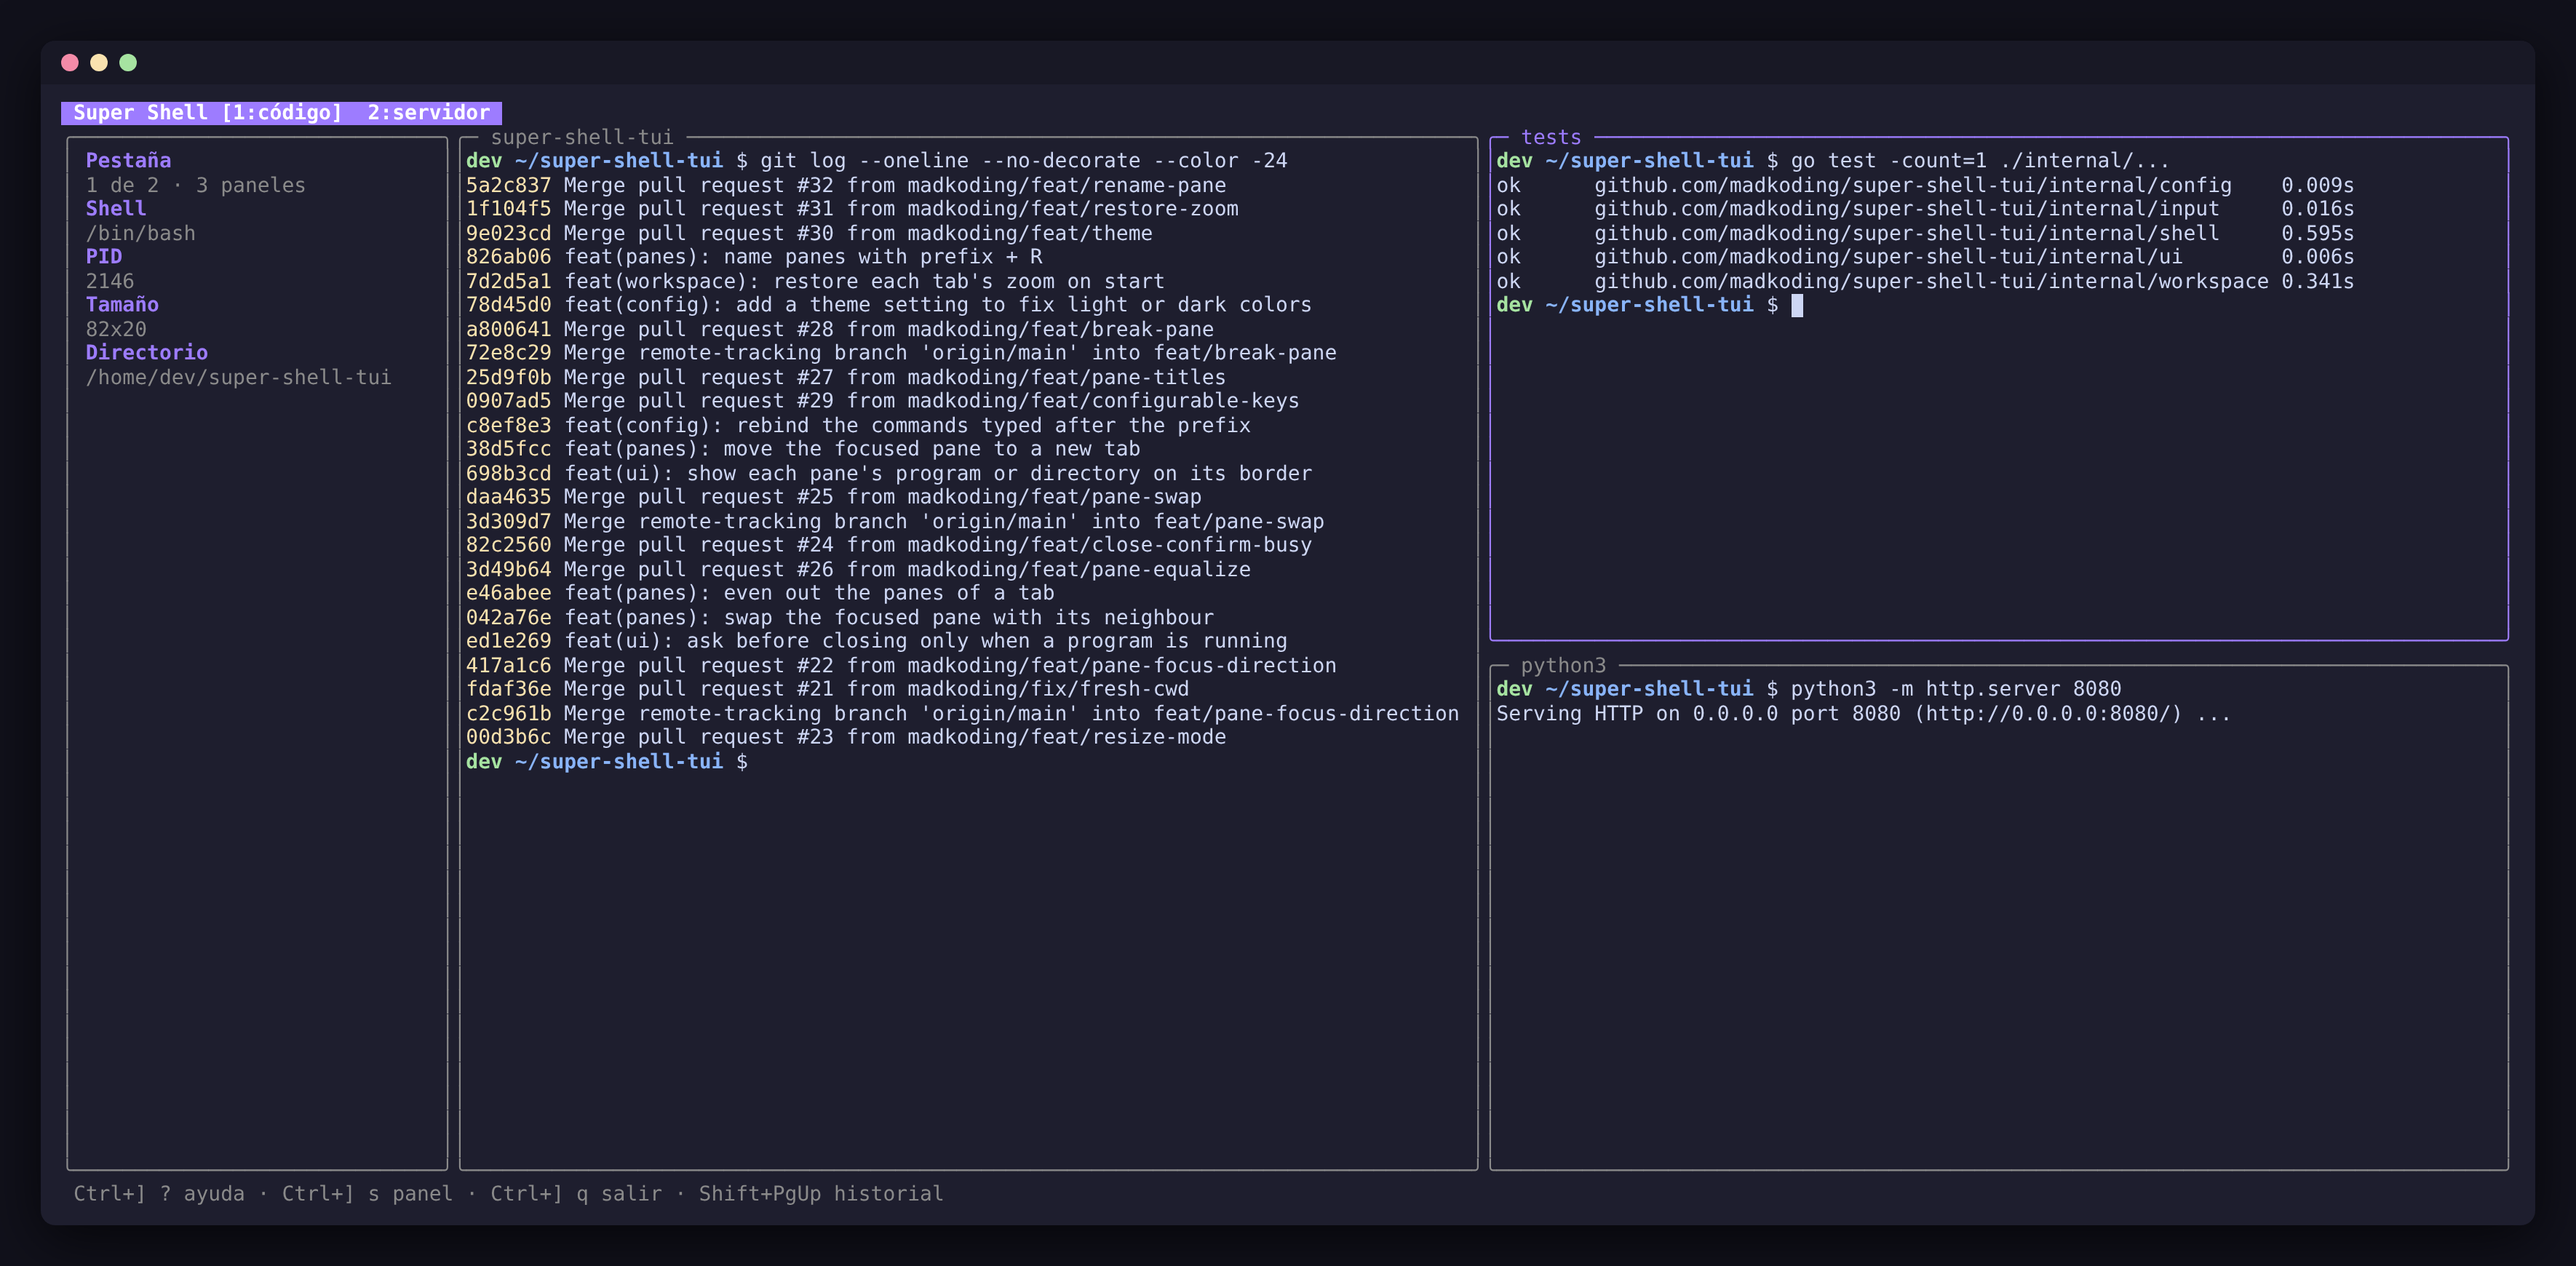
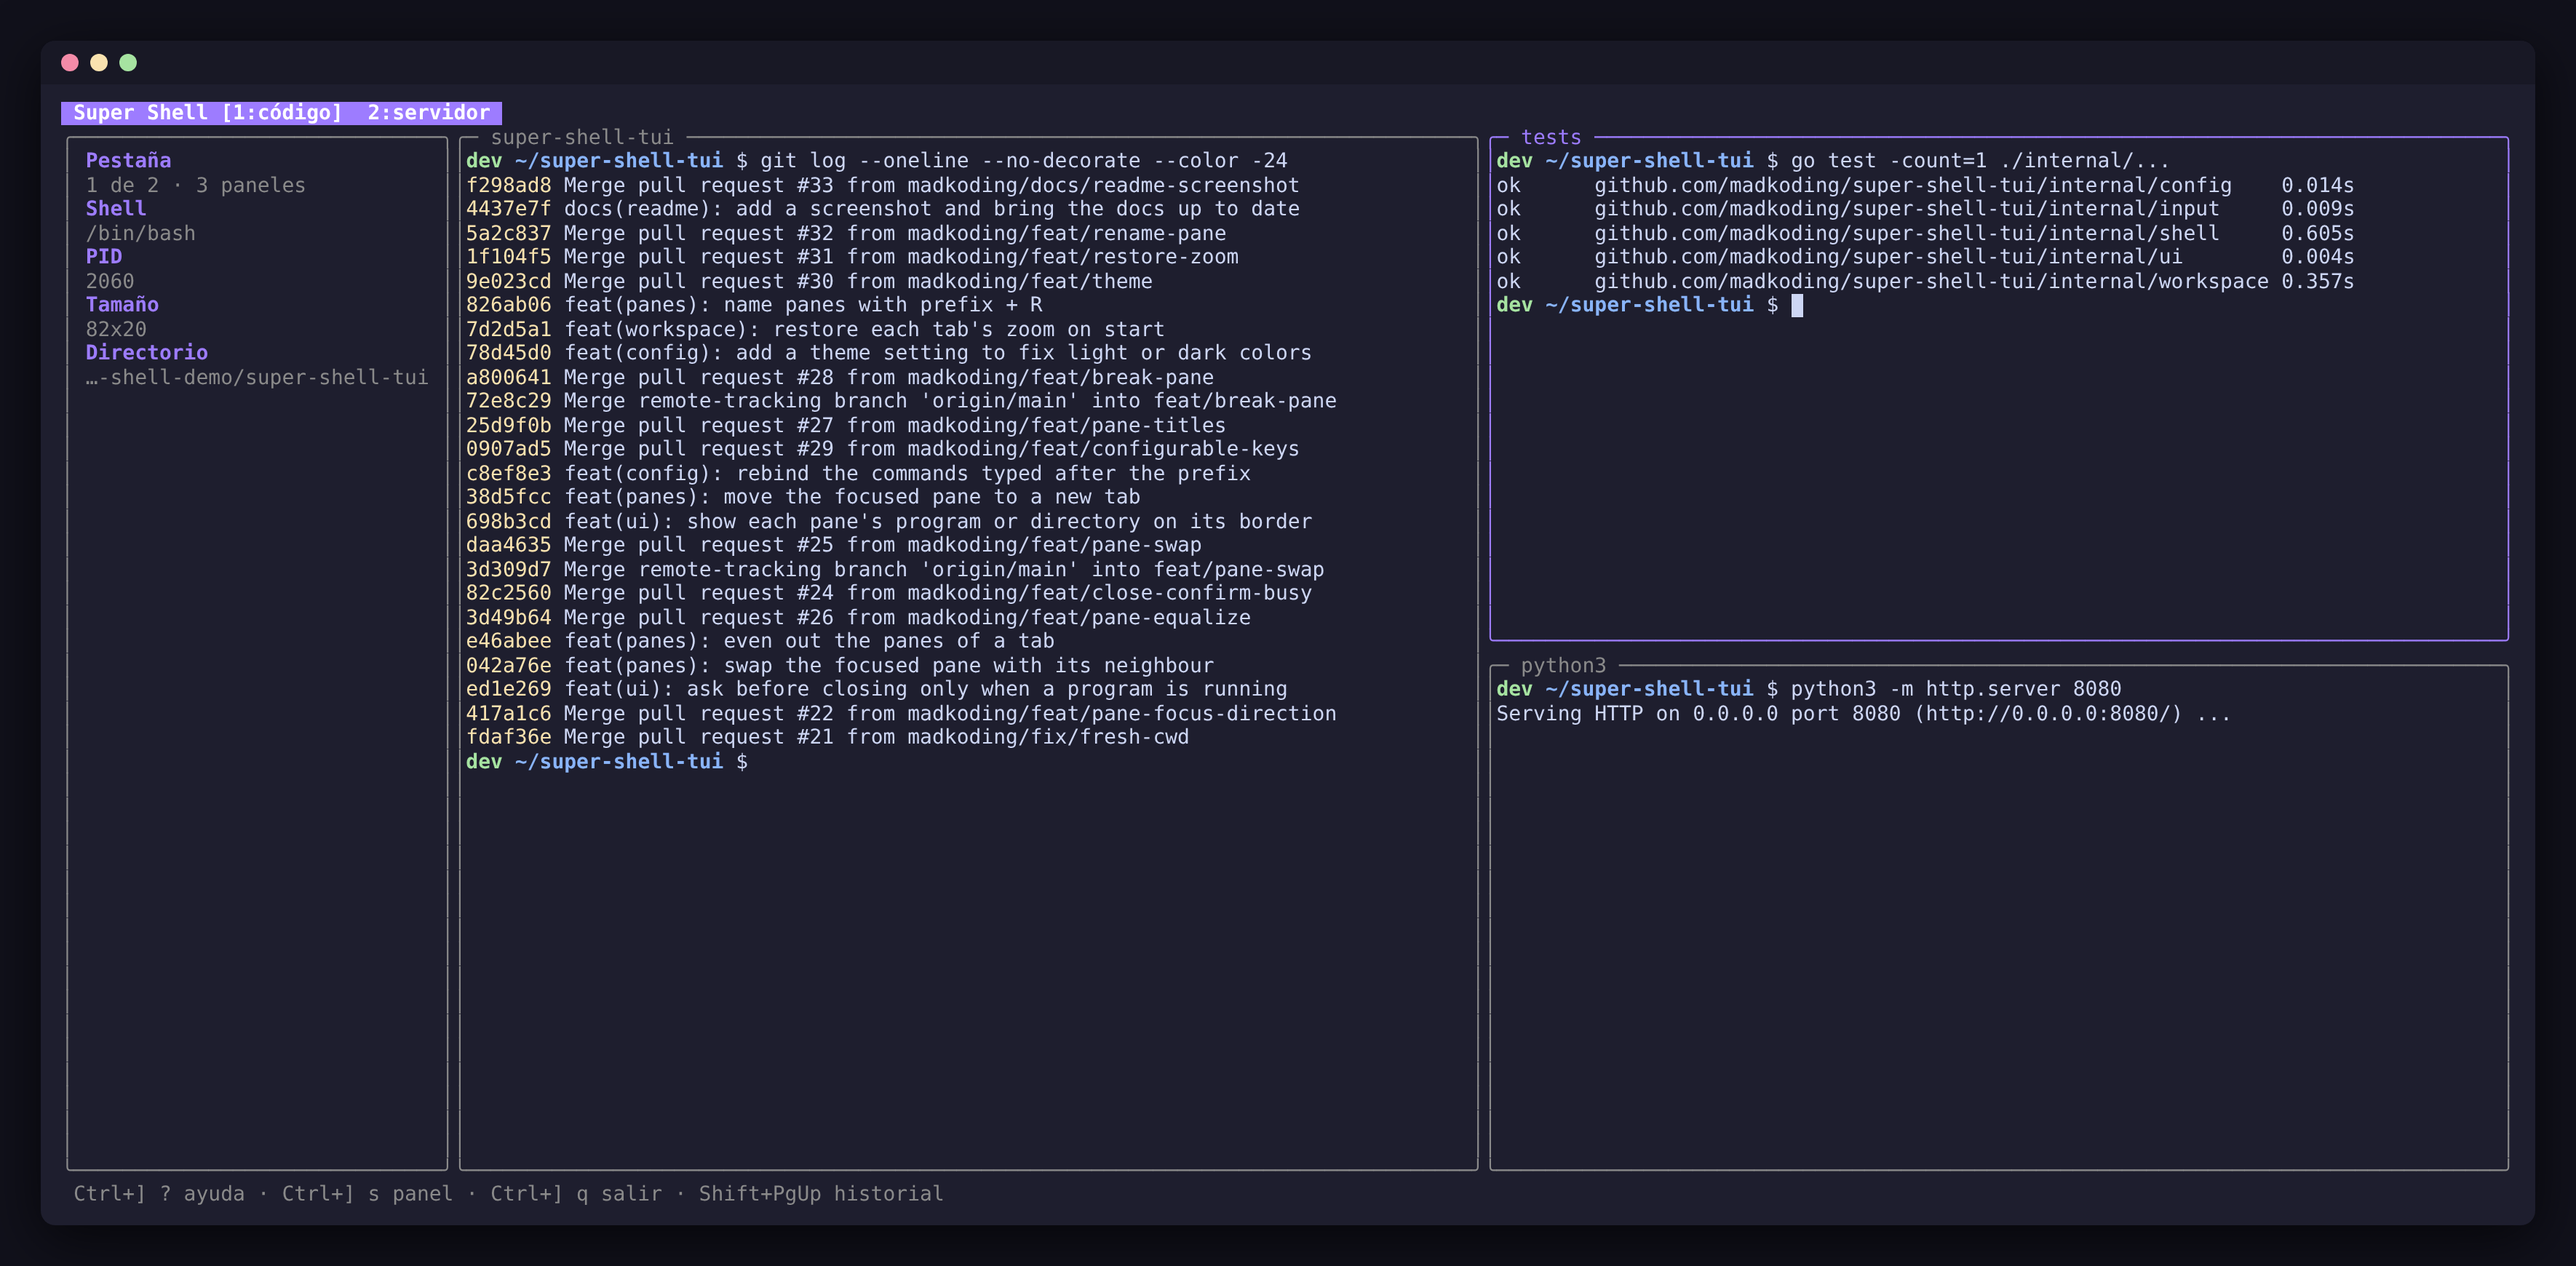
docs: add make screenshot to regenerate the README images and a demo GIF
scripts/screenshot/run.sh drives the real app in a detached tmux session,
renders the captured screens with headless Chromium and builds
docs/screenshot.png plus docs/demo.gif (split, name a pane, zoom). A small
Makefile adds build, test and screenshot targets.

Claude-Session: https://claude.ai/code/session_011xzmDbQQm7PpzoWjrbTfMQ

Changed region(s): [[0.1864, 0.1241, 0.5593, 0.5897], [0.0311, 0.2793, 0.1554, 0.3103]]

diff --git a/scripts/screenshot/render.js b/scripts/screenshot/render.js
@@ -1,0 +1,17 @@
+// Renders HTML pages made by ans2html.py to PNG with headless Chromium.
+// Usage: node render.js SCALE IN.html OUT.png [IN.html OUT.png ...]
+const { chromium } = require('playwright');
+
+(async () => {
+  const [scale, ...pairs] = process.argv.slice(2);
+  const browser = await chromium.launch(
+    process.env.CHROMIUM ? { executablePath: process.env.CHROMIUM } : {});
+  const page = await browser.newPage({ deviceScaleFactor: Number(scale) });
+  for (let i = 0; i < pairs.length; i += 2) {
+    await page.goto('file://' + require('path').resolve(pairs[i]));
+    const box = await (await page.$('.w')).boundingBox();
+    await page.setViewportSize({ width: Math.ceil(box.width + 56), height: Math.ceil(box.height + 56) });
+    await page.screenshot({ path: pairs[i + 1] });
+  }
+  await browser.close();
+})();

diff --git a/scripts/screenshot/ans2html.py b/scripts/screenshot/ans2html.py
@@ -1,0 +1,121 @@
+"""Converts a `tmux capture-pane -e` dump to an HTML page that looks like a
+terminal window. Usage: python3 ans2html.py IN.ans > OUT.html"""
+import html
+import re
+import sys
+
+# Catppuccin Mocha: the 16 ANSI colors, default foreground and background.
+PALETTE = ["#1e1e2e", "#f38ba8", "#a6e3a1", "#f9e2af", "#89b4fa", "#f5c2e7", "#94e2d5", "#bac2de",
+           "#585b70", "#f38ba8", "#a6e3a1", "#f9e2af", "#89b4fa", "#f5c2e7", "#94e2d5", "#a6adc8"]
+FG, BG = "#cdd6f4", "#1e1e2e"
+SGR = re.compile(r"(\x1b\[[0-9;:]*m)")
+
+
+def color256(n):
+    if n < 16:
+        return PALETTE[n]
+    if n < 232:
+        n -= 16
+        v = [0, 95, 135, 175, 215, 255]
+        return "#%02x%02x%02x" % (v[n // 36], v[n // 6 % 6], v[n % 6])
+    g = 8 + (n - 232) * 10
+    return "#%02x%02x%02x" % (g, g, g)
+
+
+class Pen:
+    def __init__(self):
+        self.reset()
+
+    def reset(self):
+        self.fg = self.bg = None
+        self.bold = self.faint = self.italic = self.underline = self.reverse = False
+
+    def apply(self, params):
+        i = 0
+        while i < len(params):
+            x = params[i]
+            if x == 0:
+                self.reset()
+            elif x == 1:
+                self.bold = True
+            elif x == 2:
+                self.faint = True
+            elif x == 3:
+                self.italic = True
+            elif x == 4:
+                self.underline = True
+            elif x == 7:
+                self.reverse = True
+            elif x == 22:
+                self.bold = self.faint = False
+            elif x == 23:
+                self.italic = False
+            elif x == 24:
+                self.underline = False
+            elif x == 27:
+                self.reverse = False
+            elif 30 <= x <= 37:
+                self.fg = PALETTE[x - 30]
+            elif 90 <= x <= 97:
+                self.fg = PALETTE[x - 82]
+            elif 40 <= x <= 47:
+                self.bg = PALETTE[x - 40]
+            elif 100 <= x <= 107:
+                self.bg = PALETTE[x - 92]
+            elif x == 39:
+                self.fg = None
+            elif x == 49:
+                self.bg = None
+            elif x in (38, 48) and i + 1 < len(params):
+                attr = "fg" if x == 38 else "bg"
+                if params[i + 1] == 5:
+                    setattr(self, attr, color256(params[i + 2]))
+                    i += 2
+                elif params[i + 1] == 2:
+                    setattr(self, attr, "#%02x%02x%02x" % tuple(params[i + 2:i + 5]))
+                    i += 4
+            i += 1
+
+    def span(self, text):
+        fg, bg = self.fg or FG, self.bg or BG
+        if self.reverse:
+            fg, bg = bg, fg
+        style = f"color:{fg};"
+        if self.bg or self.reverse:
+            style += f"background:{bg};"
+        if self.bold:
+            style += "font-weight:bold;"
+        if self.faint:
+            style += "opacity:.6;"
+        if self.italic:
+            style += "font-style:italic;"
+        if self.underline:
+            style += "text-decoration:underline;"
+        return f'<span style="{style}">{html.escape(text)}</span>'
+
+
+def convert(dump):
+    pen, lines = Pen(), []
+    for line in dump.split("\n"):
+        out = []
+        for part in SGR.split(line):
+            if part.startswith("\x1b["):
+                pen.apply([int(x) if x else 0 for x in re.split("[;:]", part[2:-1])])
+            elif part:
+                out.append(pen.span(part))
+        lines.append("".join(out))
+    return "\n".join(lines)
+
+
+PAGE = """<!doctype html><meta charset=utf-8><style>
+body{margin:0;background:#11111b;padding:28px}
+.w{display:inline-block;background:%(bg)s;border-radius:10px;box-shadow:0 10px 40px #000a;overflow:hidden}
+.bar{height:30px;background:#181825;display:flex;align-items:center;padding-left:14px;gap:8px}
+.bar i{width:12px;height:12px;border-radius:50%%;display:block}
+pre{margin:0;padding:12px 14px;font:14px/1.18 "DejaVu Sans Mono",monospace;color:%(fg)s}
+</style><div class=w><div class=bar><i style="background:#f38ba8"></i><i style="background:#f9e2af"></i>\
+<i style="background:#a6e3a1"></i></div><pre>%(body)s</pre></div>"""
+
+if __name__ == "__main__":
+    with open(sys.argv[1], encoding="utf-8") as f:
+        print(PAGE % {"bg": BG, "fg": FG, "body": convert(f.read())})

diff --git a/README.md b/README.md
@@ -11,6 +11,8 @@ lateral de información y la sesión guardada al salir.
 *Pestaña `código` con tres paneles: `git log`, uno renombrado `tests` y un
 servidor cuyo borde muestra el programa que corre (`python3`).*
 
+![Dividir, nombrar un panel y hacer zoom](docs/demo.gif)
+
 ## Instalación
 
 Binarios para Linux y macOS (amd64 y arm64) en
@@ -195,5 +197,12 @@ tiene, y del panel activo el shell, su PID, el tamaño y el directorio.
 ## Tests
 
 ```sh
-go test ./...
+make test          # go vet + go test -race
 ```
+
+## Capturas
+
+`make screenshot` regenera `docs/screenshot.png` y `docs/demo.gif` usando la
+app real dentro de tmux (ver `scripts/screenshot/run.sh`). Necesita `tmux`,
+`python3`, `ffmpeg` y Node con el paquete `playwright` (o `CHROMIUM` apuntando
+a un Chrome/Chromium).
